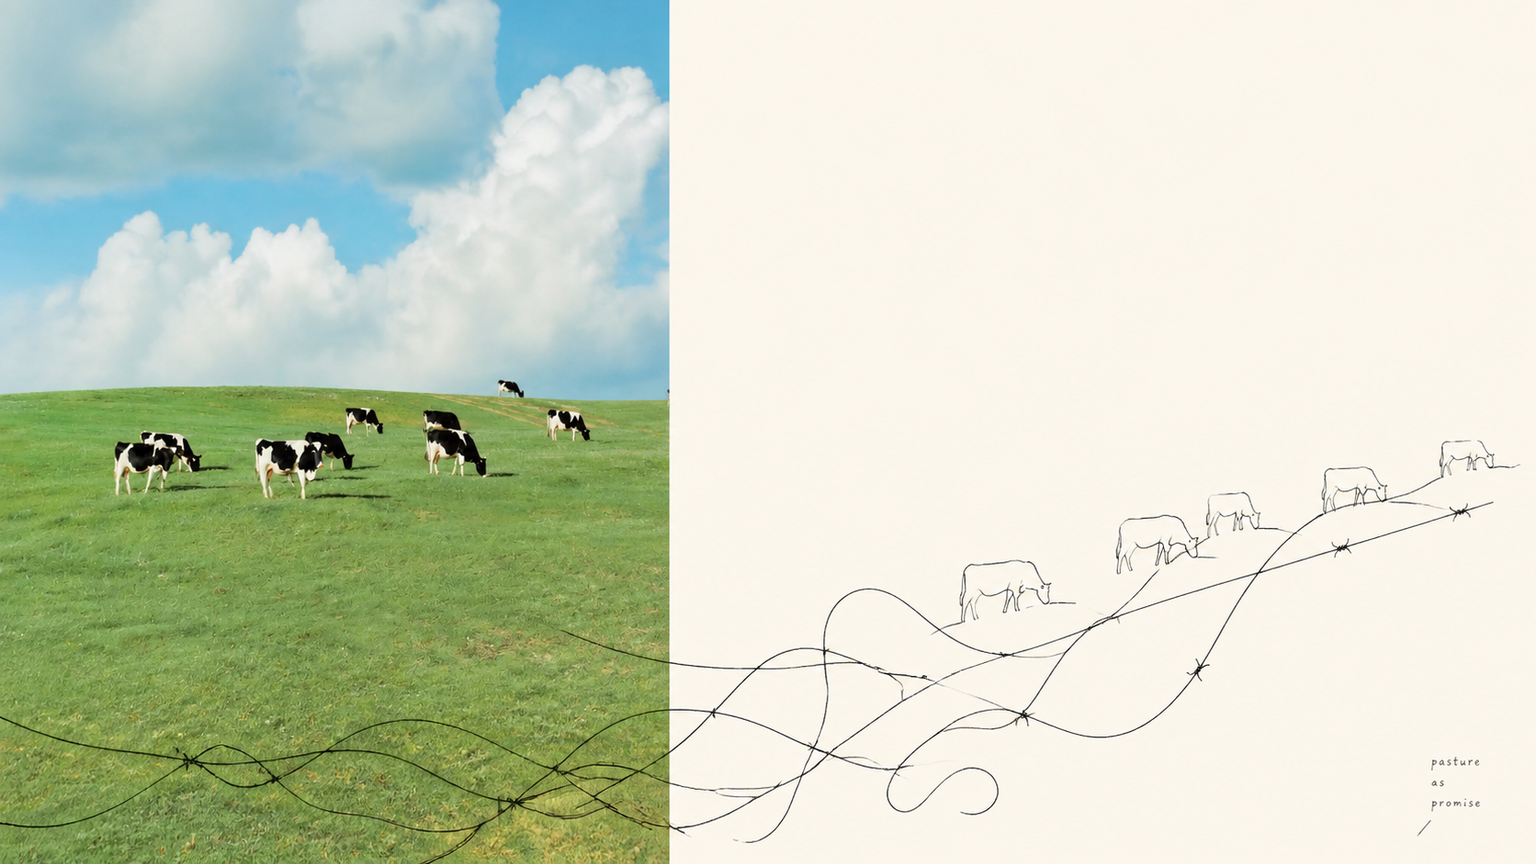
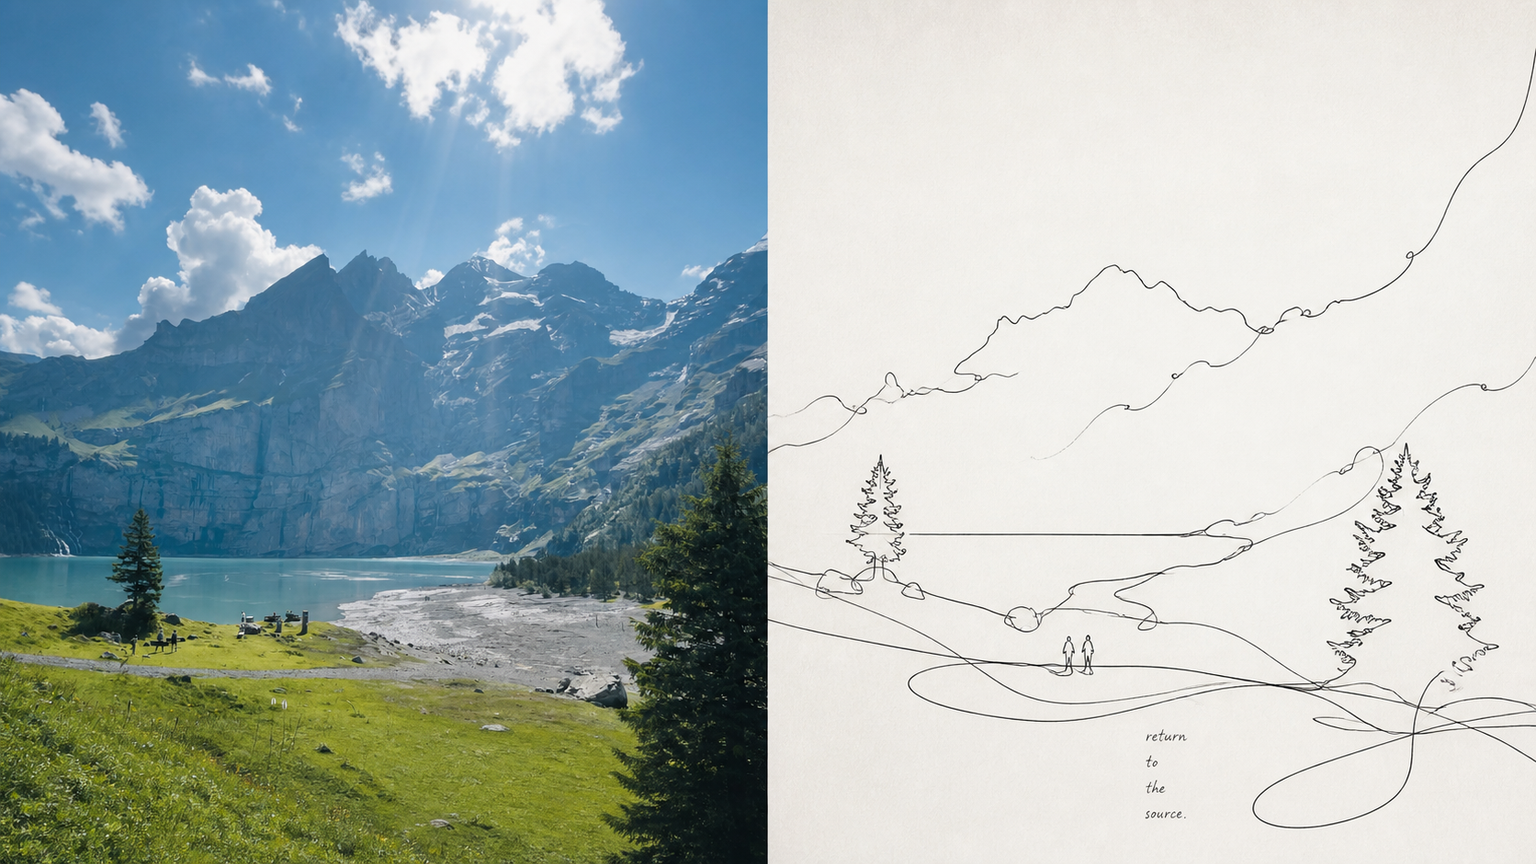
docs: add four 16:9 left-right samples

diff --git a/README.en.md b/README.en.md
@@ -16,6 +16,28 @@
 
 </div>
 
+<!-- xxd-human-intro:start -->
+## The short, honest version
+
+Ever had a photo you loved turn into generic “AI design”? The subject survives, but the relationship, mood, and tiny details that made the photo yours disappear.
+
+That frustration is why I made **Panel 003**. It does not press a template onto your image. It first works out what must not be lost, then translates it into **Compress direction, connection, pressure, and release into quiet yet tense conceptual black line**.
+
+### Understand it in 30 seconds
+
+- **Give it:** one photo, a folder of images, or a rough idea.
+- **It does:** preserves recognizable people, objects, actions, and relationships, then redesigns them in this Panel’s own visual language.
+- **You get:** ready-to-use PNGs—comparison layouts, design-only artwork, multiple ratios, or a wallpaper set.
+
+### The easiest way to try it
+
+You do not need to study every option first. Give your Agent an image and say:
+
+> Use XXD Panel 003 on this image and recommend the best layout and size first.
+
+Check the samples below if you want to feel out the aesthetic. If you are ready, jump to [Get started](#get-started). The full modes, sizes, and parameters are tucked into an expandable reference for later.
+<!-- xxd-human-intro:end -->
+
 ## Samples · From X
 
 <table>
@@ -29,6 +51,11 @@
   </tr>
   <tr>
     <td colspan="2"><img src="./assets/examples/sample-05.png" alt="XXD Panel 003 Sample 5"></td>
+  </tr>
+  <tr>
+    <td width="33%"><img src="./assets/examples/sample-06.png" alt="XXD Panel 003 Sample 6"></td>
+    <td width="33%"><img src="./assets/examples/sample-07.png" alt="XXD Panel 003 Sample 7"></td>
+    <td width="33%"><img src="./assets/examples/sample-08.png" alt="XXD Panel 003 Sample 8"></td>
   </tr>
 </table>
 
@@ -85,6 +112,9 @@ If an unrelated photograph could replace the source without materially changing 
 - **Functional force marks:** thorns, knots, barbs, or short strokes occur only at real pressure, crossing, or turning points.
 - **Whitespace as silence:** cold white, cream, or pale low-saturation ground dominates; the active system stays off-centre and never fills the canvas.
 - **Micro issue type:** one very short theme word or phrase behaves as a trace beside the line, never a slogan or explanation.
+
+<details>
+<summary><strong>Full capabilities and parameters (open when needed)</strong></summary>
 
 ## The original brief is authoritative
 
@@ -227,6 +257,8 @@ GPT Image 2 is the default first choice. It keeps this project's established wor
 Seedance 5.0 Pro, Nano Banana Pro (Gemini Image Pro), Nano Banana 2 (Gemini Image Flash), or another compatible bitmap model may also be used when it is actually available through the current tools or configured routes and can satisfy source fidelity, whole-canvas ratio, target-language text, and linked-wallpaper multi-reference requirements. An alternative changes only the generation route; it must not change modes, canvas, copy, locale, wallpaper relationship, or the complete-canvas-first strategy.
 
 If no suitable route is available, the Skill asks the user to enable an image-generation tool or provide an API key. User-provided credentials may be used for the current task without being echoed, displayed, logged, or exposed. They are not persisted, and provider, account, billing, or global route configuration is not modified, unless the user explicitly requests that configuration change.
+
+</details>
 
 ## Get started
 

diff --git a/assets/examples/README.md b/assets/examples/README.md
@@ -11,5 +11,8 @@
   - `sample-03.jpg`
   - `sample-04.jpg`
   - `sample-05.png` — generated 16:9 left-right English-copy sample from the Chenxiang poster batch
+  - `sample-06.png` — generated 16:9 left-right English-copy sample from the Chenxiang poster batch
+  - `sample-07.png` — generated 16:9 left-right English-copy sample from the Chenxiang poster batch
+  - `sample-08.png` — generated 16:9 left-right English-copy sample from the Chenxiang poster batch
 
 The repository READMEs display these local copies; the original four samples link back to their X post, while sample-05 is a newly generated batch sample. The samples demonstrate the style's aesthetic motive and range only; they never become generation references, source material, fixed subjects, palettes, composition, copy, or default canvas sizes.
